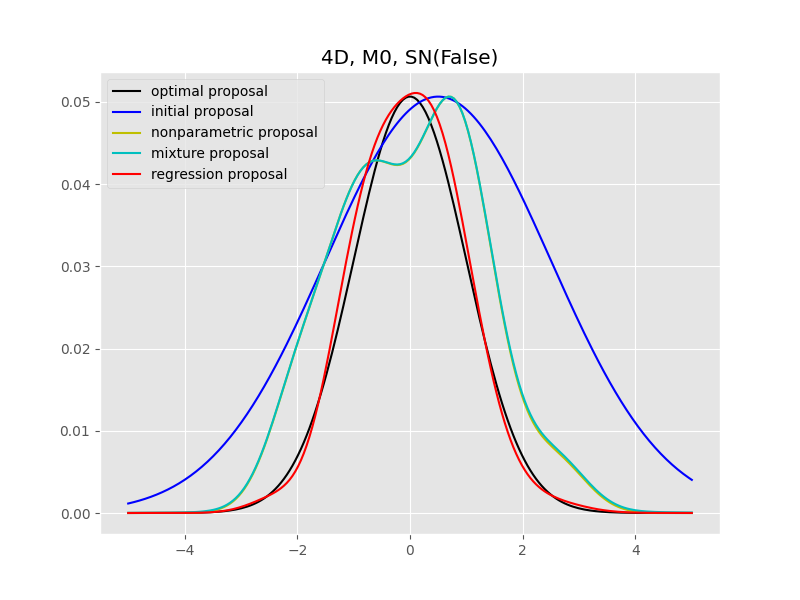
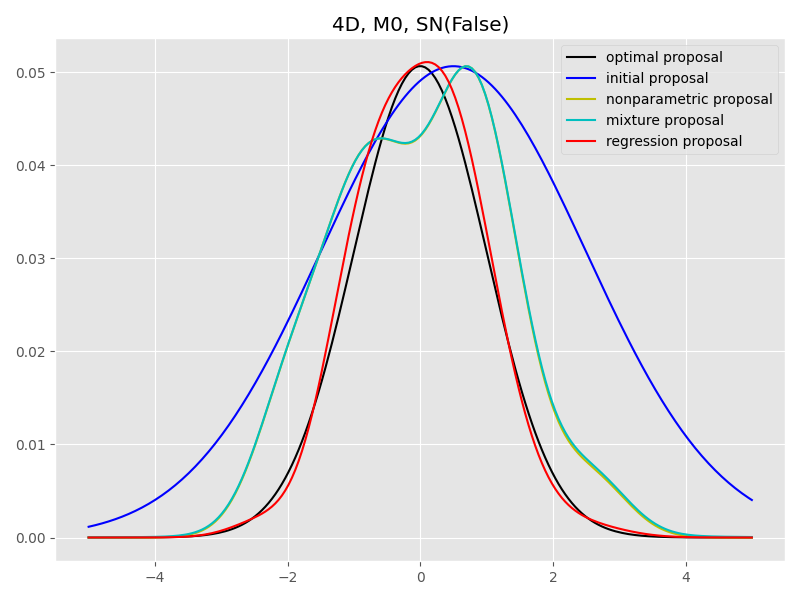
abc

diff --git a/niscv/experiments/optimal proposal.py b/niscv/experiments/optimal proposal.py
@@ -48,6 +48,7 @@ def main():
         ax.legend()
         name = '4D, M' + str(setting[0]) + ', SN(' + str(setting[1]) + ')'
         ax.set_title(name)
+        fig.tight_layout()
         fig.show()
 
 

diff --git a/niscv/analysis/normal case.py b/niscv/analysis/normal case.py
@@ -77,4 +77,5 @@ if __name__ == '__main__':
     for i, d in enumerate(dims):
         R.append(main(d, axs[:, i]))
 
+    fig.tight_layout()
     fig.show()
